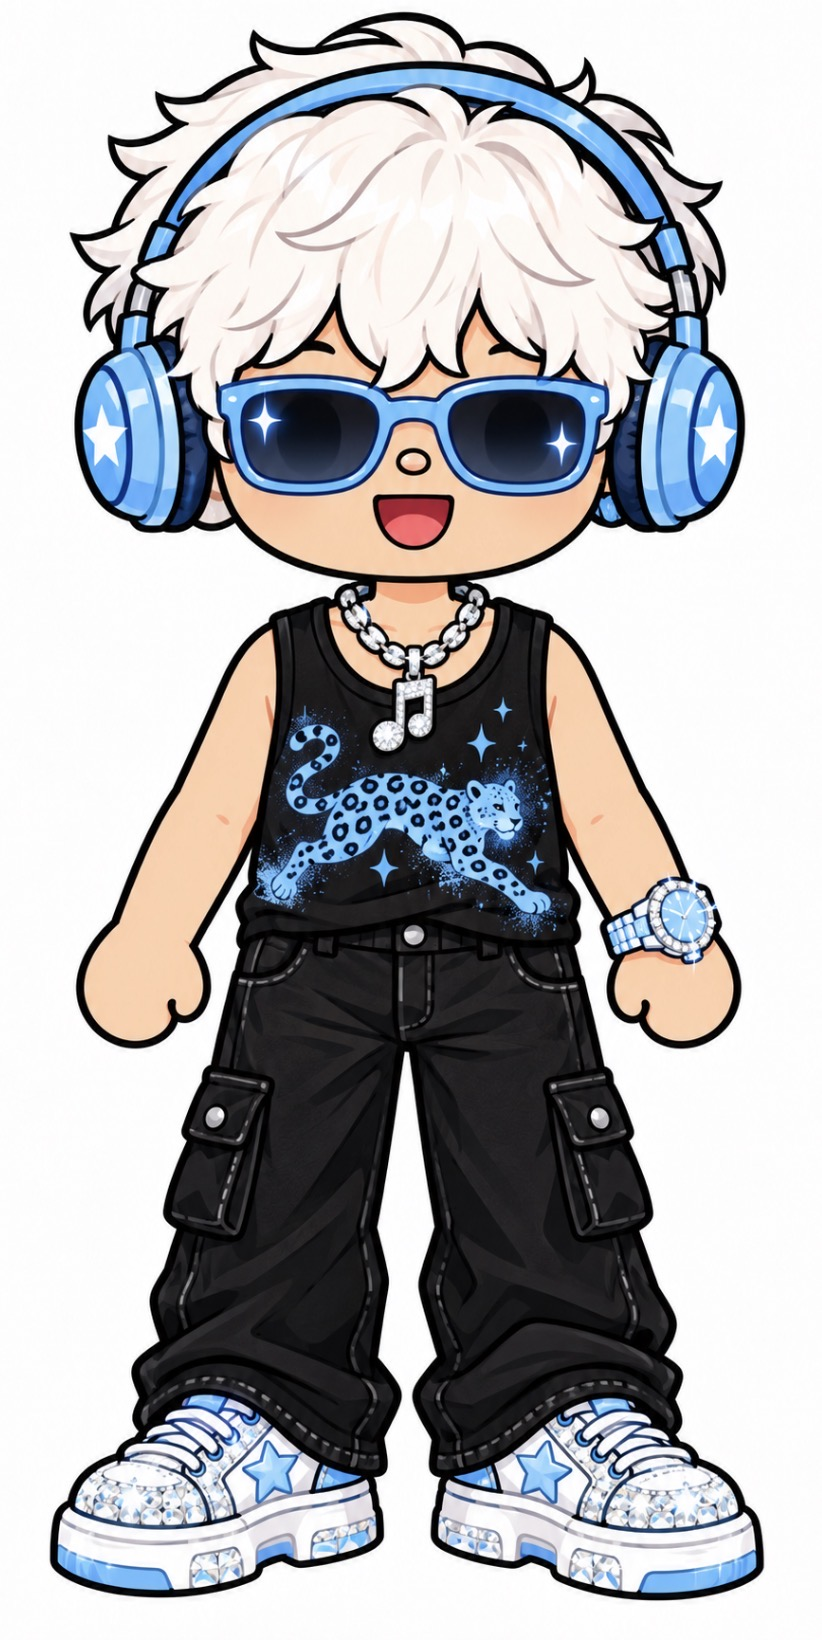
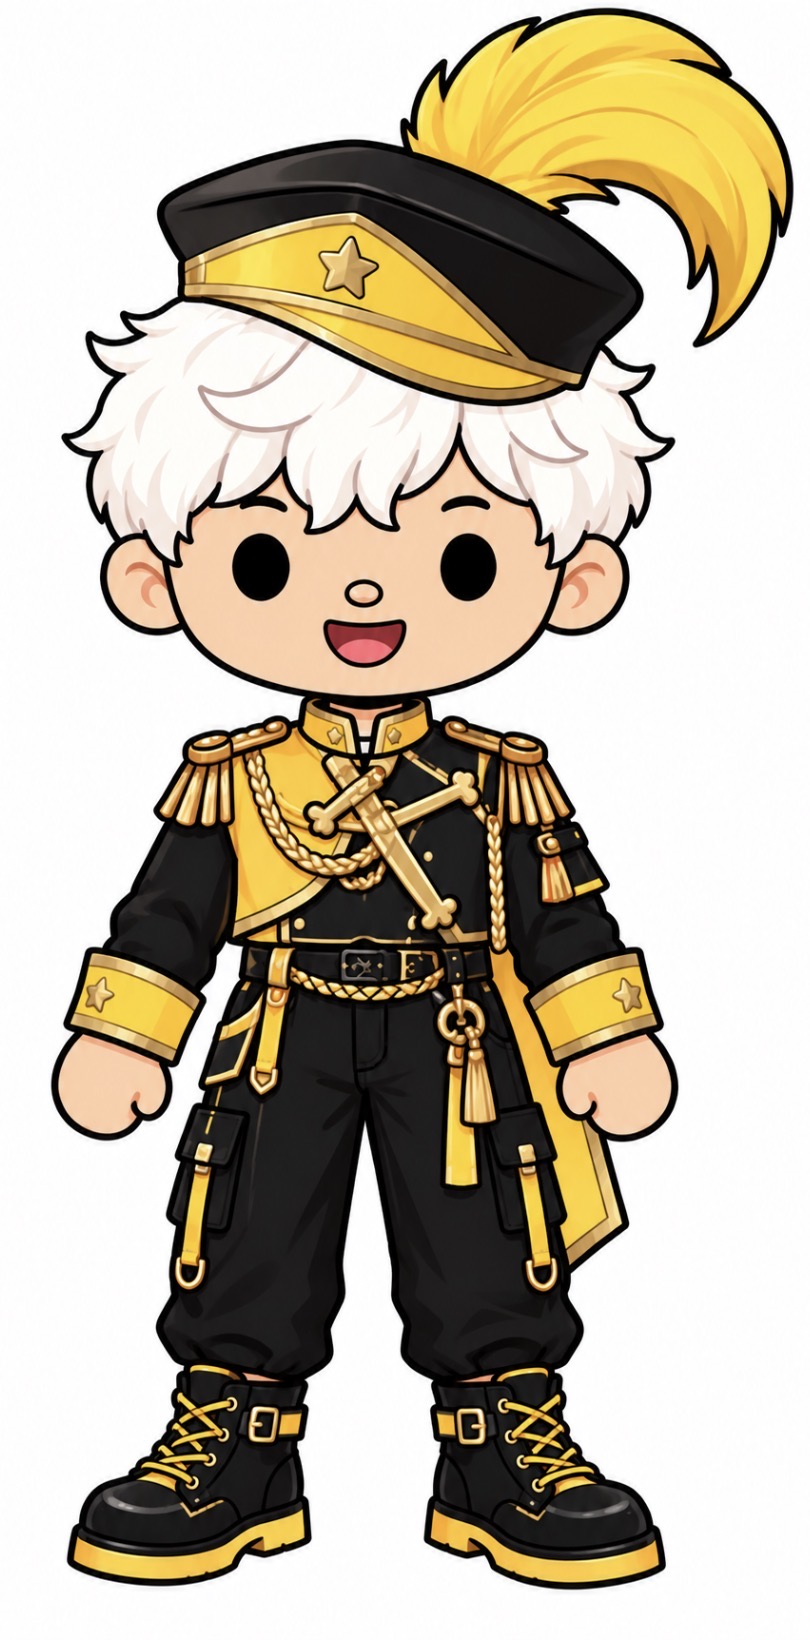
Fix mislabeled Pekkle outfits and add Gondolier, Rockstar Guitarist, correct Marching Band and Diner Dude

diff --git a/gallery.html b/gallery.html
@@ -1855,12 +1855,24 @@
             <figcaption>Sailor</figcaption>
           </figure>
           <figure class="outfit-figure">
-            <img src="images/pekkle-outfit-dinerdude.jpg" alt="Pekkle Diner Dude" loading="lazy" decoding="async" />
-            <figcaption>Diner Dude</figcaption>
+            <img src="images/pekkle-outfit-gondolier.jpg" alt="Pekkle Gondolier" loading="lazy" decoding="async" />
+            <figcaption>Gondolier</figcaption>
+          </figure>
+          <figure class="outfit-figure">
+            <img src="images/pekkle-outfit-rockstarguitarist.jpg" alt="Pekkle Rockstar Guitarist" loading="lazy" decoding="async" />
+            <figcaption>Rockstar Guitarist</figcaption>
+          </figure>
+          <figure class="outfit-figure">
+            <img src="images/pekkle-outfit-legendarydancer.jpg" alt="Pekkle Legendary Dancer" loading="lazy" decoding="async" />
+            <figcaption>Legendary Dancer</figcaption>
           </figure>
           <figure class="outfit-figure">
             <img src="images/pekkle-outfit-marchingband.jpg" alt="Pekkle Marching Band" loading="lazy" decoding="async" />
             <figcaption>Marching Band</figcaption>
+          </figure>
+          <figure class="outfit-figure">
+            <img src="images/pekkle-outfit-dinerdude.jpg" alt="Pekkle Diner Dude" loading="lazy" decoding="async" />
+            <figcaption>Diner Dude</figcaption>
           </figure>
           <figure class="outfit-figure">
             <img src="images/pekkle-outfit-duck.jpg" alt="Pekkle Duck" loading="lazy" decoding="async" />
